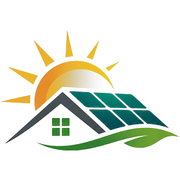
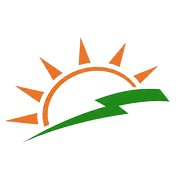
fixed the theme

Changed region(s): [[0.0, 0.1667, 1.0, 0.8611], [0.0278, 0.7778, 0.0556, 0.8056]]

diff --git a/frontend/tailwind.config.js b/frontend/tailwind.config.js
@@ -1,65 +1,68 @@
 import typography from '@tailwindcss/typography';
 import defaultTheme from 'tailwindcss/defaultTheme';
 
-/** Design tokens matching the ARKA Solar Energy logo (Charcoal + Leaf Green + Solar Blue). */
+/**
+ * Design tokens — theme "White + Green":
+ * navy blue for headings/text, deep green for primary actions, orange accent, white/light surfaces.
+ */
 export default {
   content: ['./index.html', './src/**/*.{js,jsx}'],
   theme: {
     extend: {
       colors: {
-        // Charcoal — "ARKA" wordmark, structure and roof in logo
+        // Navy blue — headings, body emphasis, top bar, footer, secondary buttons
         primary: {
-          DEFAULT: '#263238',
-          50: '#F2F5F6',
-          100: '#E1E7EA',
-          200: '#C5D0D5',
-          300: '#9AA9B0',
-          400: '#6B7D86',
-          500: '#46575F',
-          600: '#37474F',
-          700: '#263238',
-          800: '#1C262B',
-          900: '#10181C',
+          DEFAULT: '#123F73',
+          50: '#EEF4FB',
+          100: '#D7E4F3',
+          200: '#AFC8E6',
+          300: '#7FA4D2',
+          400: '#4D7DB9',
+          500: '#2A5F9E',
+          600: '#1B4F8A',
+          700: '#123F73',
+          800: '#0C305A',
+          900: '#082343',
         },
-        // Leaf green — "SOLAR ENERGY" and leaves in logo
+        // Deep green — primary call-to-action buttons, "SOLAR ENERGY", success accents
         brand: {
-          DEFAULT: '#2E8B2E',
-          light: '#5FAE2E',
-          dark: '#23702A',
-          50: '#EEF7EC',
-          100: '#D7EDD2',
+          DEFAULT: '#1E7B34',
+          light: '#43A047',
+          dark: '#176128',
+          50: '#ECF7EE',
+          100: '#D2ECD7',
         },
-        // Solar Blue — clean photovoltaic solar panel blue (replacing yellow)
+        // Orange — underlines, highlights, active indicators, focus rings
         accent: {
-          DEFAULT: '#0284C7',
-          hover: '#0369A1',
-          light: '#38BDF8',
-          deep: '#075985',
-          50: '#F0F9FF',
-          100: '#E0F2FE',
+          DEFAULT: '#F57C1F',
+          hover: '#DD6A0F',
+          light: '#FFB067',
+          deep: '#C2570A',
+          50: '#FFF4EA',
+          100: '#FFE4CC',
         },
-        // Solar panel teal
-        panel: { DEFAULT: '#0E6E6B', light: '#13908B', 50: '#E7F4F3' },
+        // Solar-panel blue — project-type chips and info notes
+        panel: { DEFAULT: '#1D6FB0', light: '#3B8FD0', 50: '#EAF3FB' },
         success: '#16A34A',
         danger: '#DC2626',
         surface: '#FFFFFF',
-        muted: '#F5F7F6',
-        border: '#E3E7EA',
-        ink: { DEFAULT: '#1F2937', muted: '#5B6577' },
+        muted: '#F5F8FB',
+        border: '#E2E8F0',
+        ink: { DEFAULT: '#1E293B', muted: '#55657A' },
       },
       fontFamily: {
         sans: ['Inter', ...defaultTheme.fontFamily.sans],
       },
       maxWidth: { prose: '70ch' },
       boxShadow: {
-        card: '0 1px 2px rgba(16,24,28,.06), 0 4px 16px rgba(16,24,28,.06)',
-        'card-hover': '0 4px 8px rgba(16,24,28,.08), 0 12px 32px rgba(16,24,28,.12)',
+        card: '0 1px 2px rgba(8,35,67,.06), 0 4px 16px rgba(8,35,67,.06)',
+        'card-hover': '0 4px 8px rgba(8,35,67,.08), 0 12px 32px rgba(8,35,67,.12)',
       },
       backgroundImage: {
         // Logo sun — orange to yellow
         'sun-gradient': 'linear-gradient(135deg, #F58A1F 0%, #F5A623 45%, #FFD66B 100%)',
-        'solar-gradient': 'linear-gradient(135deg, #075985 0%, #0284C7 50%, #38BDF8 100%)',
-        'brand-gradient': 'linear-gradient(135deg, #23702A 0%, #2E8B2E 50%, #5FAE2E 100%)',
+        'solar-gradient': 'linear-gradient(135deg, #0C305A 0%, #123F73 50%, #2A5F9E 100%)',
+        'brand-gradient': 'linear-gradient(135deg, #176128 0%, #1E7B34 50%, #43A047 100%)',
       },
       keyframes: {
         'fade-in': { from: { opacity: 0 }, to: { opacity: 1 } },

diff --git a/frontend/src/components/home/HeroSlider.jsx b/frontend/src/components/home/HeroSlider.jsx
@@ -9,9 +9,23 @@ import { useBanners } from '@/hooks/usePublicData';
 import { useSettings } from '@/hooks/useSettings';
 import { cldUrl, IMG } from '@/lib/cloudinary';
 import { cn } from '@/lib/cn';
-import { ROUTES } from '@/lib/constants';
+import { HERO_LOGO, ROUTES } from '@/lib/constants';
 
 const HEIGHT = 'h-[540px] sm:h-[520px] lg:h-[600px]';
+
+/** Company logo above the banner text: icon on top, ARKA wordmark below (light version, transparent background). */
+function HeroLogo() {
+  return (
+    <img
+      src={HERO_LOGO}
+      alt=""
+      aria-hidden="true"
+      width="794"
+      height="470"
+      className="mb-6 h-24 w-auto max-w-full drop-shadow-[0_2px_8px_rgba(0,0,0,0.45)] sm:h-28 lg:h-36"
+    />
+  );
+}
 
 function CtaButton({ label, link }) {
   if (!label || !link) return null;
@@ -35,6 +49,7 @@ function StaticHero() {
       <div className="absolute -right-20 -top-20 h-96 w-96 rounded-full bg-sun-gradient opacity-40 blur-2xl" aria-hidden="true" />
       <div className="absolute -bottom-40 left-0 h-80 w-[50rem] rounded-full bg-brand opacity-30 blur-3xl" aria-hidden="true" />
       <div className="container-page relative">
+        <HeroLogo />
         <h1 className="max-w-3xl text-4xl font-bold leading-tight text-white sm:text-5xl lg:text-6xl">{company.name}</h1>
         {company.tagline && <p className="mt-5 max-w-xl text-lg text-primary-100 md:text-xl">{company.tagline}</p>}
         <div className="mt-8 flex flex-col gap-3 sm:flex-row">
@@ -104,10 +119,10 @@ export default function HeroSlider() {
                     className="absolute inset-0 h-full w-full object-cover"
                   />
                 </picture>
-                <div className="absolute inset-0 bg-gradient-to-t from-primary-900/85 via-primary-900/50 to-primary-900/20 md:bg-gradient-to-r md:from-primary-900/85 md:via-primary-900/50 md:to-transparent" />
-                <div className="container-page relative flex h-full items-end pb-16 md:items-center md:pb-0">
+                <div className="absolute inset-0 bg-gradient-to-t from-primary-900/90 via-primary-900/65 to-primary-900/35 md:bg-gradient-to-r md:from-primary-900/85 md:via-primary-900/50 md:to-transparent" />
+                <div className="container-page relative flex h-full items-center pb-20 pt-4 md:pb-24">
                   <div className="max-w-2xl">
-                    <span className="mb-4 block h-1 w-14 rounded bg-accent" aria-hidden="true" />
+                    <HeroLogo />
                     <Heading className="text-3xl font-bold leading-tight text-white sm:text-4xl lg:text-[52px]">{b.title}</Heading>
                     {b.subtitle && <p className="mt-4 text-base text-primary-100 sm:text-lg">{b.subtitle}</p>}
                     <div className="mt-7">

diff --git a/frontend/src/components/layout/Logo.jsx b/frontend/src/components/layout/Logo.jsx
@@ -4,38 +4,24 @@ import { cn } from '@/lib/cn';
 import { DEFAULT_LOGO_LIGHT, LOGO_ICON, ROUTES } from '@/lib/constants';
 
 /**
- * Header logo: the uploaded logo from Settings if present, otherwise the sun-and-roof icon
- * with an "ARKA / SOLAR ENERGY" wordmark matching the brand logo.
- * `light` renders the light version for dark backgrounds (footer).
+ * Navbar logo: the sun-and-bolt icon only (no text), linking home.
+ * `light` renders the full light logo for dark backgrounds (footer) — the uploaded one from Settings if present.
  */
 export default function Logo({ light = false, className, onClick }) {
   const { company } = useSettings();
-  const uploaded = light ? company.logoLight?.url : company.logo?.url;
   const name = company.name || 'ARKA Solar Energy';
 
   if (light) {
     return (
       <Link to={ROUTES.home} onClick={onClick} className={cn('inline-block', className)} aria-label={`${name} — Home`}>
-        <img src={uploaded || DEFAULT_LOGO_LIGHT} alt={name} width="180" height="152" className="h-28 w-auto" loading="lazy" />
+        <img src={company.logoLight?.url || DEFAULT_LOGO_LIGHT} alt={name} width="180" height="152" className="h-28 w-auto" loading="lazy" />
       </Link>
     );
   }
 
   return (
-    <Link to={ROUTES.home} onClick={onClick} className={cn('flex shrink-0 items-center gap-2.5', className)} aria-label={`${name} — Home`}>
-      {uploaded ? (
-        <img src={uploaded} alt={name} className="h-11 w-auto lg:h-14" width="160" height="56" />
-      ) : (
-        <>
-          <img src={LOGO_ICON} alt="" width="783" height="525" className="h-10 w-auto lg:h-12" aria-hidden="true" />
-          <span className="flex flex-col leading-none">
-            <span className="text-[22px] font-extrabold tracking-[0.08em] text-primary lg:text-[26px]">ARKA</span>
-            <span className="mt-1 flex items-center gap-1 text-[9.5px] font-bold tracking-[0.22em] text-brand lg:text-[10.5px]">
-              SOLAR ENERGY
-            </span>
-          </span>
-        </>
-      )}
+    <Link to={ROUTES.home} onClick={onClick} className={cn('flex shrink-0 items-center', className)} aria-label={`${name} — Home`}>
+      <img src={LOGO_ICON} alt={name} width="509" height="314" className="h-10 w-auto lg:h-12" />
     </Link>
   );
 }

diff --git a/backend/src/emails/layout.js b/backend/src/emails/layout.js
@@ -1,6 +1,7 @@
 import { escapeHtml } from '../utils/escapeHtml.js';
 
-const BRAND = { dark: '#263238', green: '#2E8B2E', sun: '#F5A623', muted: '#F2F5F6' };
+// Matches the website theme ("White + Green"): navy, deep green, orange accent
+const BRAND = { dark: '#123F73', green: '#1E7B34', sun: '#F57C1F', muted: '#F5F8FB' };
 
 /** Shared, mobile-friendly email wrapper (inline styles, max 600px). */
 export function layout({ settings, title, bodyHtml }) {
@@ -22,7 +23,7 @@ export function layout({ settings, title, bodyHtml }) {
           <h1 style="font-size:20px;margin:0 0 16px;color:${BRAND.dark};">${escapeHtml(title)}</h1>
           ${bodyHtml}
         </td></tr>
-        <tr><td style="padding:16px 24px;background:${BRAND.dark};color:#cfd8dc;font-size:12px;text-align:center;">
+        <tr><td style="padding:16px 24px;background:${BRAND.dark};color:#D7E4F3;font-size:12px;text-align:center;">
           &copy; ${new Date().getFullYear()} ${company}
         </td></tr>
       </table>
@@ -45,7 +46,7 @@ export function rowsTable(rows) {
 }
 
 export function button(href, label) {
-  return `<p style="margin:20px 0;"><a href="${escapeHtml(href)}" style="display:inline-block;background:${BRAND.sun};color:${BRAND.dark};text-decoration:none;font-weight:700;padding:12px 22px;border-radius:8px;">${escapeHtml(label)}</a></p>`;
+  return `<p style="margin:20px 0;"><a href="${escapeHtml(href)}" style="display:inline-block;background:${BRAND.green};color:#ffffff;text-decoration:none;font-weight:700;padding:12px 22px;border-radius:8px;">${escapeHtml(label)}</a></p>`;
 }
 
 export const rowsText = (rows) =>

diff --git a/frontend/src/admin/components/AuthCard.jsx b/frontend/src/admin/components/AuthCard.jsx
@@ -10,7 +10,7 @@ export default function AuthCard({ title, subtitle, children, footer }) {
       <div className="absolute -right-24 -top-24 h-80 w-80 rounded-full bg-sun-gradient opacity-25 blur-3xl" aria-hidden="true" />
       <div className="absolute -bottom-24 -left-24 h-80 w-80 rounded-full bg-brand opacity-20 blur-3xl" aria-hidden="true" />
       <div className="relative w-full max-w-md">
-        <img src={DEFAULT_LOGO} alt="ARKA Solar Energy" width="1063" height="899" className="mx-auto mb-6 h-28 w-auto" />
+        <img src={DEFAULT_LOGO} alt="ARKA Solar Energy" width="1475" height="300" className="mx-auto mb-6 h-14 w-auto max-w-full" />
         <div className="rounded-2xl border border-border bg-white p-6 shadow-card-hover sm:p-8">
           <h1 className="text-2xl font-bold text-primary">{title}</h1>
           {subtitle && <p className="mt-1 text-ink-muted">{subtitle}</p>}

diff --git a/frontend/src/components/ui/Button.jsx b/frontend/src/components/ui/Button.jsx
@@ -4,7 +4,8 @@ import { cn } from '@/lib/cn';
 import Spinner from './Spinner';
 
 const variants = {
-  primary: 'bg-accent text-white hover:bg-accent-hover shadow-sm',
+  // Main call to action — green, as in the "White + Green" theme
+  primary: 'bg-brand text-white hover:bg-brand-dark shadow-sm',
   secondary: 'bg-primary text-white hover:bg-primary-800 shadow-sm',
   brand: 'bg-brand text-white hover:bg-brand-dark shadow-sm',
   outline: 'border-2 border-primary text-primary hover:bg-primary hover:text-white',

diff --git a/frontend/index.html b/frontend/index.html
@@ -3,8 +3,7 @@
   <head>
     <meta charset="UTF-8" />
     <meta name="viewport" content="width=device-width, initial-scale=1.0" />
-    <meta name="theme-color" content="#263238" />
-    <link rel="icon" type="image/svg+xml" href="/favicon.svg" />
+    <meta name="theme-color" content="#123F73" />
     <link rel="icon" type="image/png" href="/images/favicon.png" />
     <link rel="apple-touch-icon" href="/images/apple-touch-icon.png" />
     <title>ARKA Solar Energy — Solar Products & Installations</title>

diff --git a/frontend/src/lib/constants.js b/frontend/src/lib/constants.js
@@ -72,5 +72,7 @@ export const PAGE_SIZE = { products: 12, projects: 9, admin: 20 };
 
 export const DEFAULT_LOGO = '/images/logo.png';
 export const DEFAULT_LOGO_LIGHT = '/images/logo-light.png';
+/** Stacked logo (icon above the ARKA wordmark), white text on a transparent background — used over the hero banner. */
+export const HERO_LOGO = '/images/logo-hero.png';
 export const LOGO_ICON = '/images/logo-icon.png';
 export const PLACEHOLDER_IMG = '/images/placeholder.svg';

diff --git a/frontend/src/components/layout/TopBar.jsx b/frontend/src/components/layout/TopBar.jsx
@@ -11,7 +11,7 @@ export default function TopBar() {
 
   return (
     <div className="hidden bg-primary text-sm text-primary-100 md:block">
-      <div className="container-page flex h-10 items-center justify-between gap-4">
+      <div className="container-page flex h-10 items-center justify-center gap-8">
         <ul className="flex min-w-0 items-center gap-6">
           {phone && (
             <li>

diff --git a/frontend/src/components/layout/Header.jsx b/frontend/src/components/layout/Header.jsx
@@ -51,7 +51,7 @@ export default function Header() {
           </ul>
         </nav>
 
-        <div className="flex items-center gap-2">
+        <div className="ml-auto flex items-center gap-2">
           <Button to={ROUTES.contact} className="hidden lg:inline-flex">
             Get a Quote
           </Button>
